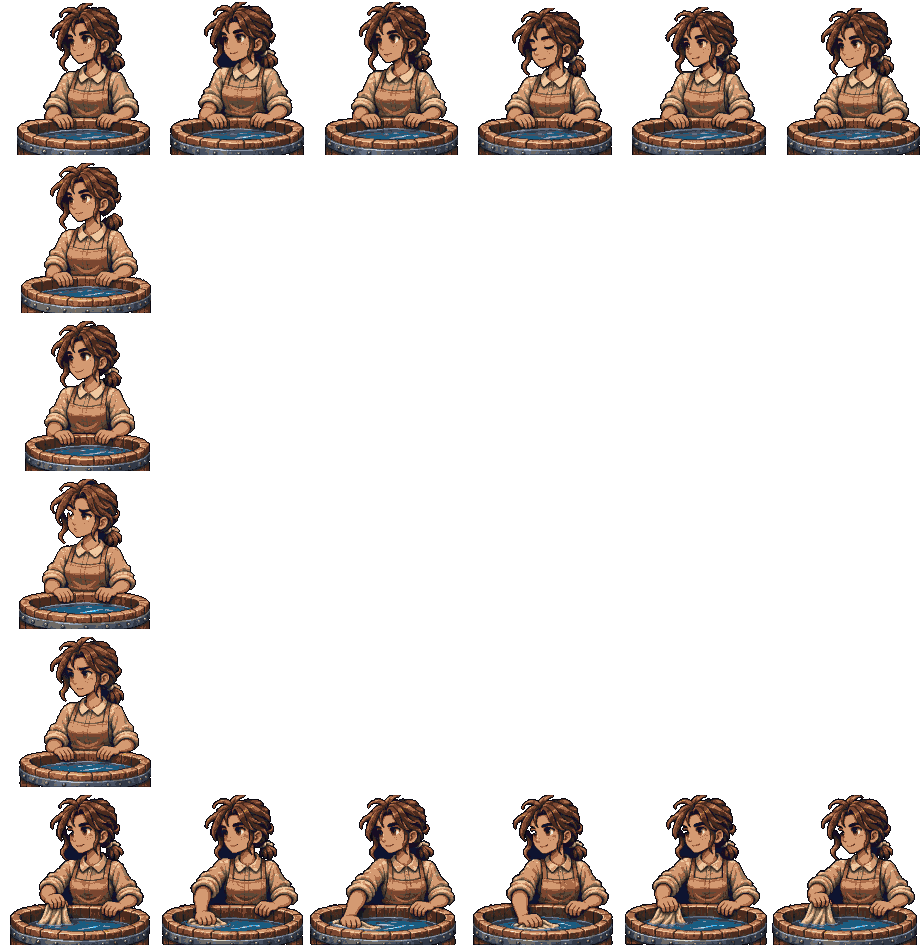
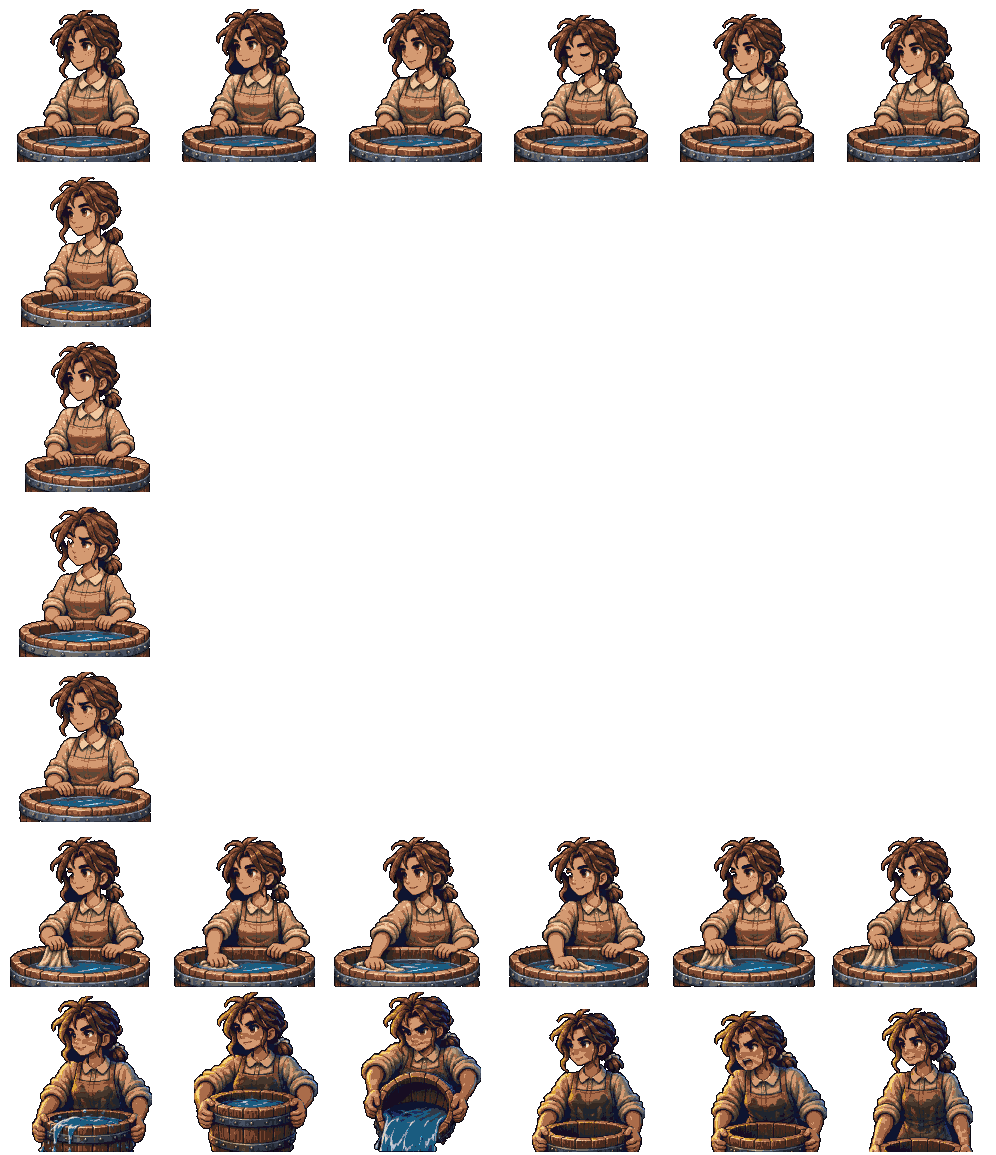
Elsbeth's bucket and Gennet's silencing look: art-wanted section 38 cut
The art desk's HEAD 7 pages (ELSBETH_HEAD-7_BUCKET, GENNET_HEAD-7_THE-LOOK), back the same night as the ask: a `bucket`
row of six on pt_elsbethtub, played once, and a `look` still on pt_gennet, her bar top bevelled away as on her moods
(tools/portrait-sheet.py). The drag beat that plays them is the inn lane's ruling 19, not built. Eyes eyes-bucketlook-1107.

Changed region(s): [[0.0, 0.0, 1.0, 1.0]]

diff --git a/deep16/data/sprites.js b/deep16/data/sprites.js
@@ -14632,20 +14632,20 @@ true
 "source": "deep16/_src/elsbeth/ART-123-ELSBETH-PORTRAITS-PARTIAL (the art desk's H1, sorted out of Fresh 10-21), cut by tools/portrait-sheet.py"
 },
 "pt_elsbethtub": {
-"image": "art/pt_elsbethtub.png?v=e78c219076",
-"fw": 154,
-"fh": 158,
+"image": "art/pt_elsbethtub.png?v=465dae4016",
+"fw": 166,
+"fh": 165,
 "ax": 87,
-"ay": 155,
-"top": 155,
+"ay": 162,
+"top": 162,
 "portrait": true,
 "anims": {
 "idle": {
 "y": 0,
-"fw": 154,
-"fh": 158,
+"fw": 166,
+"fh": 165,
 "ax": 87,
-"ay": 155,
+"ay": 162,
 "frames": 6,
 "fps": 3,
 "ledge": [
@@ -14658,11 +14658,11 @@ false
 ]
 },
 "attentive": {
-"y": 158,
-"fw": 154,
-"fh": 158,
+"y": 165,
+"fw": 166,
+"fh": 165,
 "ax": 87,
-"ay": 155,
+"ay": 162,
 "frames": 1,
 "fps": 1,
 "ledge": [
@@ -14670,11 +14670,11 @@ false
 ]
 },
 "welcoming": {
-"y": 316,
-"fw": 154,
-"fh": 158,
+"y": 330,
+"fw": 166,
+"fh": 165,
 "ax": 87,
-"ay": 155,
+"ay": 162,
 "frames": 1,
 "fps": 1,
 "ledge": [
@@ -14682,11 +14682,11 @@ false
 ]
 },
 "skeptical": {
-"y": 474,
-"fw": 154,
-"fh": 158,
+"y": 495,
+"fw": 166,
+"fh": 165,
 "ax": 87,
-"ay": 155,
+"ay": 162,
 "frames": 1,
 "fps": 1,
 "ledge": [
@@ -14694,11 +14694,11 @@ false
 ]
 },
 "concerned": {
-"y": 632,
-"fw": 154,
-"fh": 158,
+"y": 660,
+"fw": 166,
+"fh": 165,
 "ax": 87,
-"ay": 155,
+"ay": 162,
 "frames": 1,
 "fps": 1,
 "ledge": [
@@ -14706,11 +14706,11 @@ false
 ]
 },
 "work": {
-"y": 790,
-"fw": 154,
-"fh": 158,
+"y": 825,
+"fw": 166,
+"fh": 165,
 "ax": 87,
-"ay": 155,
+"ay": 162,
 "frames": 6,
 "fps": 4,
 "ledge": [
@@ -14720,6 +14720,23 @@ false,
 false,
 false,
 false
+]
+},
+"bucket": {
+"y": 990,
+"fw": 166,
+"fh": 165,
+"ax": 87,
+"ay": 162,
+"frames": 6,
+"fps": 5,
+"ledge": [
+false,
+false,
+false,
+true,
+true,
+true
 ]
 }
 },
@@ -15011,8 +15028,8 @@ true
 "source": "deep16/_src/genman/ART-122 (the art desk's ART-122-MAN, sorted out of Fresh 10-21), cut by tools/portrait-sheet.py"
 },
 "pt_gennet": {
-"image": "art/pt_gennet.png?v=c31b78618b",
-"fw": 215,
+"image": "art/pt_gennet.png?v=c923d338b3",
+"fw": 217,
 "fh": 156,
 "ax": 131,
 "ay": 153,
@@ -15021,7 +15038,7 @@ true
 "anims": {
 "idle": {
 "y": 0,
-"fw": 215,
+"fw": 217,
 "fh": 156,
 "ax": 131,
 "ay": 153,
@@ -15038,7 +15055,7 @@ true
 },
 "attentive": {
 "y": 156,
-"fw": 215,
+"fw": 217,
 "fh": 156,
 "ax": 131,
 "ay": 153,
@@ -15050,7 +15067,7 @@ true
 },
 "welcoming": {
 "y": 312,
-"fw": 215,
+"fw": 217,
 "fh": 156,
 "ax": 131,
 "ay": 153,
@@ -15062,7 +15079,7 @@ true
 },
 "skeptical": {
 "y": 468,
-"fw": 215,
+"fw": 217,
 "fh": 156,
 "ax": 131,
 "ay": 153,
@@ -15074,7 +15091,7 @@ true
 },
 "concerned": {
 "y": 624,
-"fw": 215,
+"fw": 217,
 "fh": 156,
 "ax": 131,
 "ay": 153,
@@ -15086,7 +15103,7 @@ true
 },
 "work": {
 "y": 780,
-"fw": 215,
+"fw": 217,
 "fh": 156,
 "ax": 131,
 "ay": 153,
@@ -15098,6 +15115,18 @@ true,
 true,
 true,
 true,
+true
+]
+},
+"look": {
+"y": 936,
+"fw": 217,
+"fh": 156,
+"ax": 131,
+"ay": 153,
+"frames": 1,
+"fps": 1,
+"ledge": [
 true
 ]
 }

diff --git a/js/eyes.js b/js/eyes.js
@@ -63,6 +63,10 @@
     'eyes-tillcamp-world-1106': { pri: 2, group: G2, title: 'WAIT TILL A LONG REST ON THE WORLD: the camp\'s night offered after the wait (11-06)', pt: 'Silverton\'s hours and words, the 11-06 section item 1, RULED: "at a camp, not the aldwin pointer" (deep16/js/hours.js H16.worldWait; mode=pitword1106)',
       url: 'deep16/?restshow&beat=shutworld&fresh=1106tc',
       look: 'THE WORLD, twelve hours after a long rest: M > WAIT, 4 TILL A LONG REST. The wait\'s card says the hour it ran to and asks "Make camp for the night now?" -- E the night (the watches, then the long rest), X not now. On Silverton\'s street the same wait ends on its card as before, no bed named.' },
+    // THE DRAG'S TWO FACES (art-wanted section 38, the art desk's HEAD 7 pages, cut by the desk of 11-07)
+    'eyes-bucketlook-1107': { pri: 2, group: G2, title: 'Elsbeth\'s bucket and Gennet\'s silencing look: the drag\'s two new portrait rows (11-07)', pt: 'the Halfway Inn and the lake, the desk of 11-07 (tools/portrait-sheet.py elsbethtub `bucket`, gennet `look`; the drag beat itself not built -- the inn lane\'s ruling 19) · eyes',
+      url: 'deep16/?portraits&who=elsbethtub,gennet&fresh=1107bl',
+      look: 'Your "pop her up like conversation, wake up! you\'re supposed to stop it, then a silencing look from Ginnet". ELSBETH (elsbethtub), the last row, BUCKET, played once: she rises with the heavy pail, lifts it, tips it toward you -- the water out of the bottom of the frame onto the lead below -- the empty pail low, shouting, lowered. GENNET, the last row, LOOK: the level stare, no word. The rows only: the drag beat that plays them (the shout, then her look) is the inn lane\'s ruling 19, not built yet.' },
     // DORAN AS THE THUG (his "we might have to bump her dad's HP, i think he got one-shotted a lot in my visual testings", then "1 yes" -- the desk of 11-07)
     'eyes-doranthug-1107': { pri: 2, group: G2, title: 'DORAN TAKES A BLOW NOW: the SRD Thug\'s 32 hit points and two woodaxe swings, at the poison supper (11-07)', pt: 'the Halfway Inn and the lake, the desk of 11-07 (deep16/data/foes.js doran: the SRD Thug with his woodaxe; mode=secondact1104) · eyes',
       url: 'deep16/?show=secondact&beat=poison&fresh=1107dt',

diff --git a/deep16/index.html b/deep16/index.html
@@ -77,7 +77,7 @@
 <script src="js/art.js?v=e1ce4cf012"></script>
 <script src="data/cavern.js?v=647c1a184a"></script>
 <script src="data/maps.js?v=bef56a5de9"></script>
-<script src="data/sprites.js?v=8f2c68b140"></script>
+<script src="data/sprites.js?v=a6de82fd53"></script>
 <script src="js/sprites.js?v=768547a3be"></script>
 <script src="js/save.js?v=f0ad7180ca"></script>
 <script src="data/spells.js?v=ae0037fb81"></script>
@@ -170,7 +170,7 @@
 <script src="js/skyshow.js?v=7151daab7a"></script>
 <script src="js/barleyshow.js?v=186123cdd5"></script>
 <script src="js/rulesshow.js?v=cd1870619e"></script>
-<script src="../js/eyes.js?v=02abf7e700"></script>
+<script src="../js/eyes.js?v=22566ac705"></script>
 <script src="js/onegallery.js?v=198c5b983d"></script>
 <script src="js/situations16.js?v=f04fedccd1"></script>
 <script src="js/main.js?v=67fb95c839"></script>

diff --git a/tools/portrait-sheet.py b/tools/portrait-sheet.py
@@ -38,7 +38,7 @@ BUST = 150                        # px from the head's top to the hands' line at
 MASK_D = 22                       # how far from the navy a channel must be to be figure
 HOLE_D, HOLE_MIN = 4, 1000        # a hole the counter closed: the page's navy to within HOLE_D, HOLE_MIN source px of it in one piece (Percy's work frame 1)
 ACTIONS = ['idle', 'attentive', 'welcoming', 'skeptical', 'concerned', 'work']   # (the default six; a layout may name its own: Sylvia's)
-FPS = {'idle': 3, 'work': 4, 'stretch': 4, 'coin': 4, 'sale': 4, 'bluespeak': 4}   # (the idle a slow breath and blink; the work a deliberate unwrap; Vivian's coin and her candle sale a work's pace; the Blue speaking through Nerisse, its light pulsing as the mouth moves)
+FPS = {'idle': 3, 'work': 4, 'stretch': 4, 'coin': 4, 'sale': 4, 'bluespeak': 4, 'bucket': 5}   # (the idle a slow breath and blink; the work a deliberate unwrap; Vivian's coin and her candle sale a work's pace; the Blue speaking through Nerisse, its light pulsing as the mouth moves)
 # a person's pages: (page, its bands' counts top to bottom, each drawing's action in reading order) -- the art desk's six-page plan by default
 LAYOUT = [(1, [3, 3], ['idle'] * 6), (2, [1], ['attentive']), (3, [1], ['welcoming']), (4, [1], ['skeptical']), (5, [1], ['concerned']), (6, [3, 3], ['work'] * 6)]
 # the generic man's and woman's fourteen (ART-122): their own clothes' idle, then a costume a page, each a still where the named have their moods
@@ -217,7 +217,10 @@ PEOPLE = {
     # section 35 -- the six pages as ever under the art desk's own names (AMARA-HEAD-01-IDLE.png, KP01-Idle.png): Amara's work counts coins into her palm,
     # Elsbeth's is at the kitchen tub, its rim her ledge (the tub kept in her portrait, the art desk's own word)
     'amara': ('amara/INN-PORTRAITS-1104', 'AMARA', 'the Pit road (js/wagon.js: the wagon\'s own picture there now)', {'edge': True, 'pat': '%s-HEAD-%02d-*.png', 'bevel': (2, 3, 4, 5), 'avoid': ['red', 'fire']}),
-    'elsbethtub': ('elsbeth/INN-TUB-PORTRAITS-1104', 'K', 'npc:elsbeth (the Halfway Inn, js/inn.js M.talk)', {'edge': True, 'pat': '%sP%02d-*.png', 'avoid': ['red', 'fire']}),
+    # (and her bucket, 11-07, the desk of 11-07: art-wanted section 38's HEAD 7, the art desk's ELSBETH_HEAD-7_BUCKET.png -- she rises with the pail, tips it over the
+    # drugged lead on the drag and shouts; played once, js/secondact.js A.drag; Griz, 11-07: "pop her up like conversation, wake up! you're supposed to stop it")
+    'elsbethtub': ('elsbeth/INN-TUB-PORTRAITS-1104', 'K', 'npc:elsbeth (the Halfway Inn, js/inn.js M.talk)', {'edge': True, 'pat': '%sP%02d-*.png', 'avoid': ['red', 'fire'],
+                   'layout': LAYOUT + [('elsbeth/ART-38-BUCKET-1107/ELSBETH_HEAD-7_BUCKET.png', [3, 3], ['bucket'] * 6)]}),
     # Katarina at the Halfway Inn (11-05, cutter-1105, on the lanes desk's relay of Griz's "cutter has Katarina it doesn't know about yet"): the art desk's
     # HALFWAY-INN-KATARINA-PORTRAITS, art-wanted section 35 -- H01-Idle.png to H06-Work.png, writing in her book at a table by the common room's fire, the table's near
     # edge her ledge (cut off, as a counter's); her work the book written in, blotted and closed over her fingers, played once
@@ -228,7 +231,8 @@ PEOPLE = {
     # Gennet Waterby, the inn lady (11-05, cutter-1105, the same relay): the art desk's HALFWAY-INN-GENNET-PORTRAITS -- GENNET_HEAD-1_IDLE.png to HEAD-6_WORK.png, at the
     # bar in her linen kerchief and charcoal wool, the cloth in her right hand; her work the lantern taken off its hook, opened, trimmed, lit, shut and hung again,
     # played once (the hook and the lantern kept with her: islands inside her frame's box)
-    'gennet': ('gennet/INN-PORTRAITS-1105', 'GENNET', 'npc:gennet, gennetGrief, gennetYard (the Halfway Inn, js/inn.js M.talk; js/counter.js C.SHEETOF)', {'edge': True, 'pat': '%s_HEAD-%d_*.png', 'bevel': (2, 3, 4, 5), 'avoid': ['red', 'fire']}),   # (her stills' bar top bevelled: a sliver of it stood under them)
+    'gennet': ('gennet/INN-PORTRAITS-1105', 'GENNET', 'npc:gennet, gennetGrief, gennetYard (the Halfway Inn, js/inn.js M.talk; js/counter.js C.SHEETOF)', {'edge': True, 'pat': '%s_HEAD-%d_*.png', 'bevel': (2, 3, 4, 5, 'gennet/ART-38-LOOK-1107/GENNET_HEAD-7_THE-LOOK.png'), 'avoid': ['red', 'fire'],
+               'layout': LAYOUT + [('gennet/ART-38-LOOK-1107/GENNET_HEAD-7_THE-LOOK.png', [1], ['look'])]}),   # (and her silencing look, 11-07: art-wanted section 38, held a beat after Elsbeth's shout on the drag)   # (her stills' bar top bevelled: a sliver of it stood under them)
     'katarina': ('katarina/INN-PORTRAITS-1105', 'H', 'npc:katarina (the Halfway Inn, js/inn.js)', {'edge': True, 'pat': '%s%02d-*.png', 'bevel': (2, 3, 4, 5), 'avoid': ['red', 'fire']}),   # (her stills' table edge bevelled, as Falstaff's: a sliver of it stood under them)
     # Willem Glass, the illusionist (11-05, the Waterby cutter, on the lanes desk's relay of Griz's "Saw the mention I'd failed to DL them to Fresh and Willem portraits are there
     # now"): the art desk's HALFWAY-INN-WILLEM-PORTRAITS, art-wanted section 35 -- WILLEM_HEAD-1_PAGE-1.png to HEAD-6, at a table in his navy coat, a coin walking his knuckles;
